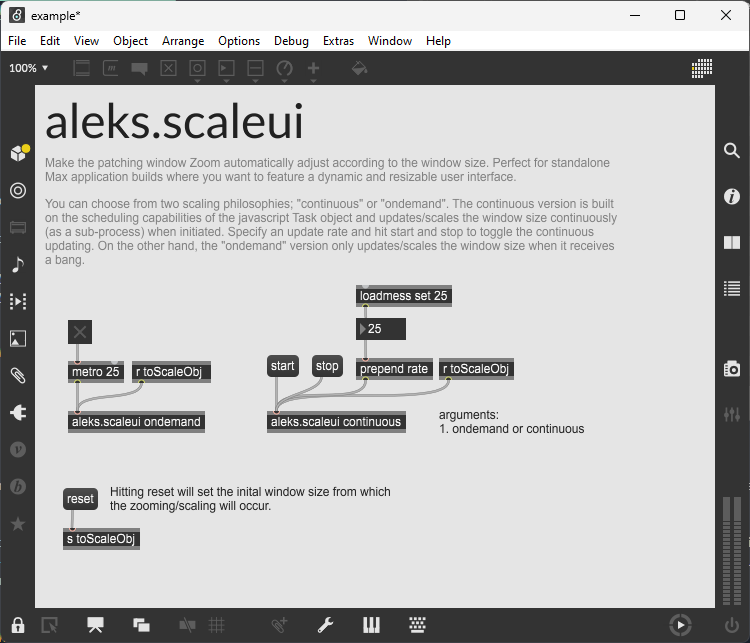
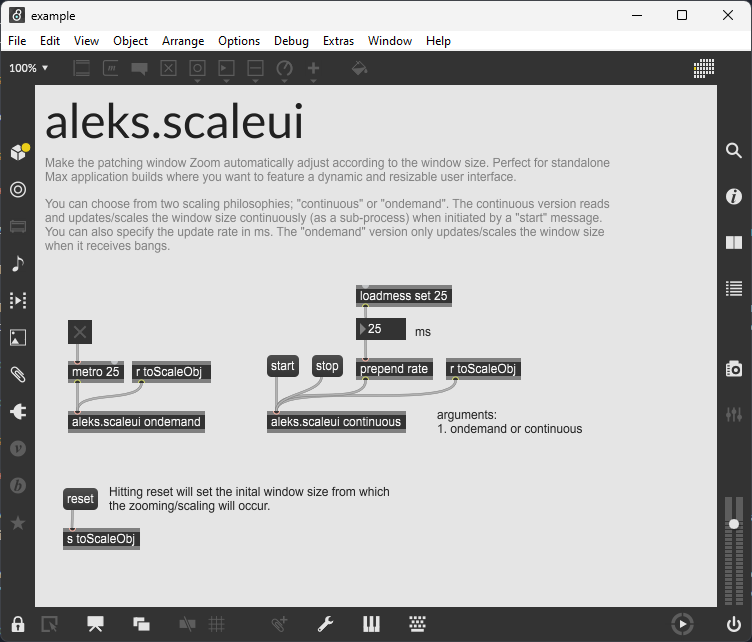
updates to scaleui

diff --git a/README.md b/README.md
@@ -1,7 +1,7 @@
 1. [aleks.ksync](#aleksksync)
 2. [aleks.gl.spectral](#aleksglspectral)
 3. [aleks.multiplot.js](#aleksmultiplotjs)
-4. [aleks.scaleUI](#aleksscaleUI)
+4. [aleks.scaleui](#aleksscaleui)
 5. [aleks.multislider](#aleksmultislider)
 
 # aleks.ksync
@@ -59,13 +59,13 @@ The interface can plot an arbitrary number of lists and will render the content 
  <img src="img/multiplot.png" width=600>
 </p>
 
-# aleks.scaleUI
+# aleks.scaleui
 
 **Type:** Abstraction
 
 Make the patching window Zoom automatically adjust according to the window size. Perfect for standalone Max application builds where you want to feature a dynamic and resizable user interface.
 
-You can choose from two scaling philosophies; "continuous" or "ondemand". The continuous version is built on the scheduling capabilities of the javascript Task object and updates/scales the window size continuously (as a sub-process) when initiated. Specify an update rate and hit start and stop to toggle the continuous updating. On the other hand, the "ondemand" version only updates/scales the window size when it receives a bang.
+You can choose from two scaling philosophies; "continuous" or "ondemand". The continuous version reads and updates/scales the window size continuously (as a sub-process) when initiated by a "start" message. You can also specify the update rate in ms. The "ondemand" version only updates/scales the window size when it receives bangs.
 
 <p align="left">
  <img src="img/scaleui.png" width=600>
